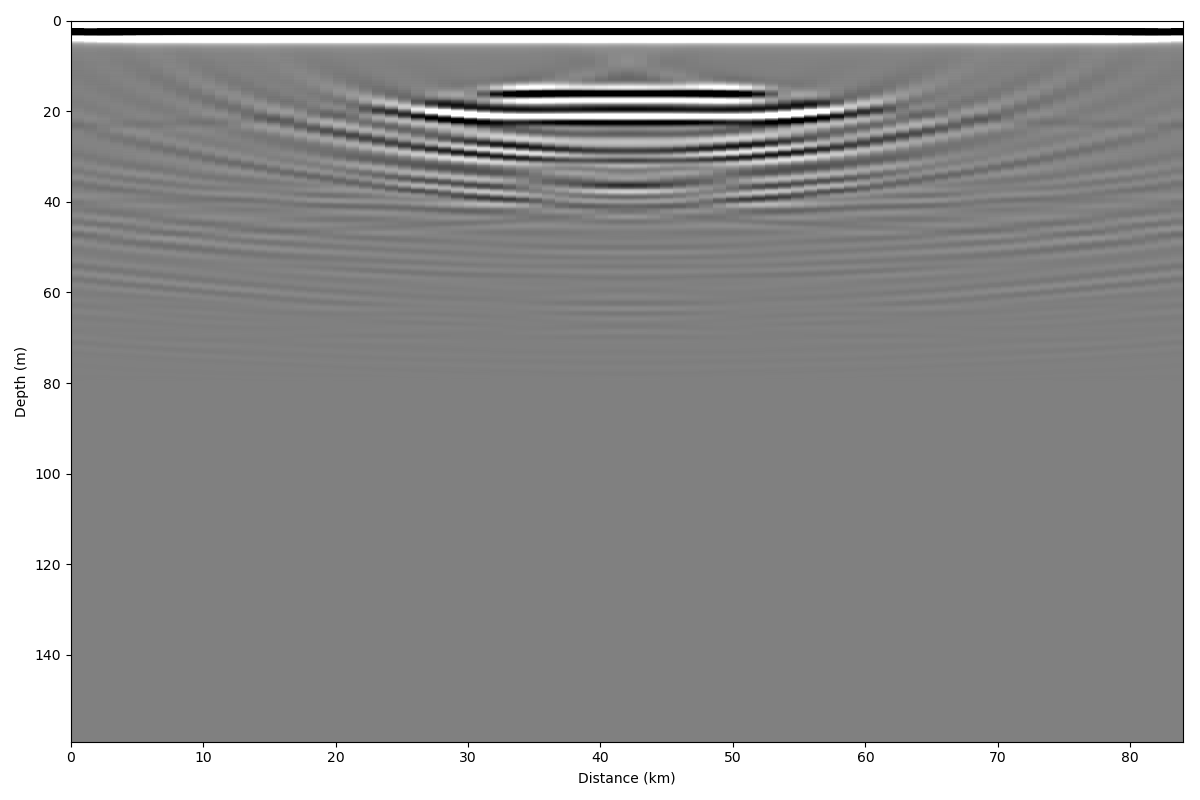
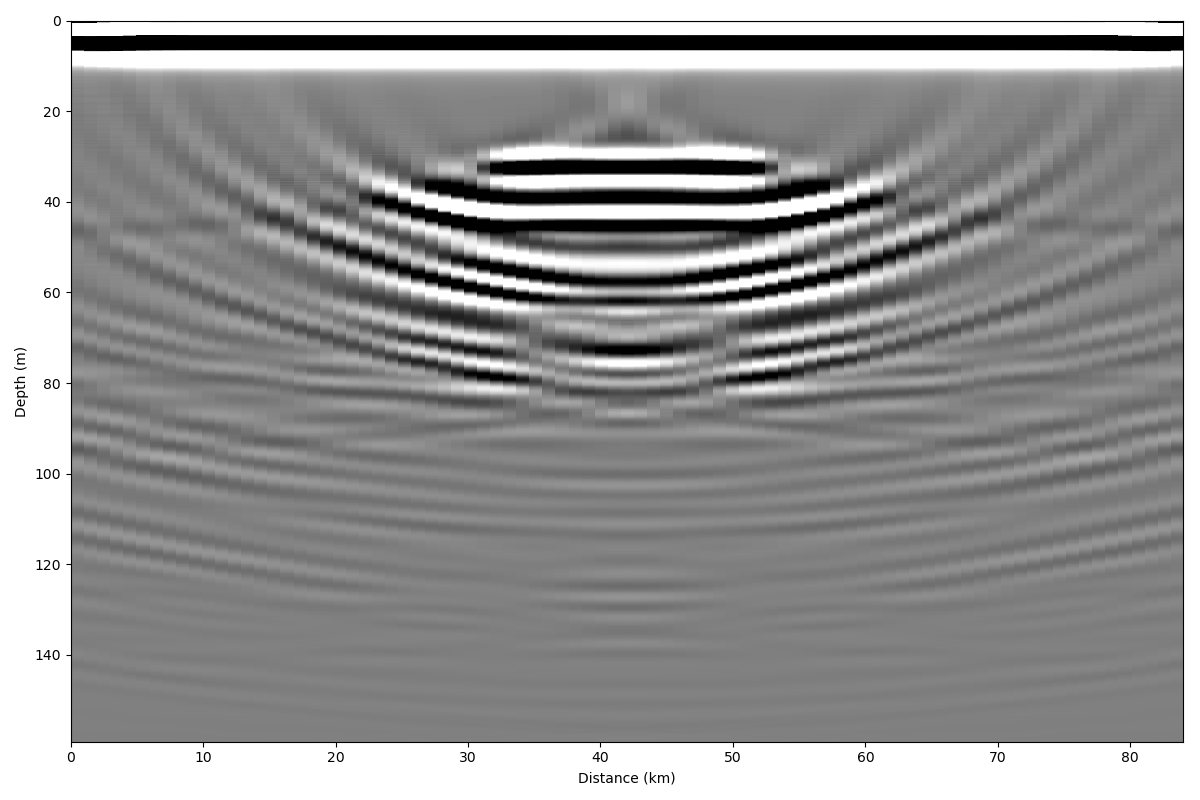
Fix Kirchhoff migration
Bug in kirchhoff which misassigned the depths.

diff --git a/impdar/lib/migrationlib.py b/impdar/lib/migrationlib.py
@@ -68,19 +68,17 @@ def migrationKirchhoff(dat, vel=1.69e8, vel_fn=None, nearfield=False,*args,**kwa
     # Try to cache some variables that we need lots
     tt_sec = dat.travel_time / 1.0e6
     max_travel_time = np.max(tt_sec)
-
     # Cache the depths
-    zs = vel * tt_sec
+    zs = vel * tt_sec/2.
     zs2 = zs**2.
 
     # Loop through all traces
-    print('Migrating trace number:', end='')
+    print('Migrating trace number:')
     for xi in range(dat.tnum):
-        print('{:d}, '.format(xi), end='')
+        print('{:d}'.format(xi),end=', ',flush=True)
         # get the trace distance
         x = dat.dist[xi]
         dists2 = (dat.dist - x)**2.
-
         # Loop through all samples
         for ti in range(dat.snum):
             # get the radial distances between input point and output point
@@ -158,12 +156,12 @@ def migrationStolt(dat,vel=1.68e8,htaper=100,vtaper=1000,*args,**kwargs):
     # interpolation will move from frequency-wavenumber to wavenumber-wavenumber, KK = D(kx,kz,t=0)
     KK = np.zeros_like(FK)
     print('Interpolating from temporal frequency (ws) to vertical wavenumber (kz):')
-    print('Interpolating:',end='')
+    print('Interpolating:')
     # for all temporal frequencies
     for zj in range(dat.snum//2):
         kzj = ws[zj]*2./vel
         if zj%100 == 0:
-            print(int(ws[zj]/1e6/2/np.pi),'MHz, ',end='')
+            print(int(ws[zj]/1e6/2/np.pi),'MHz',end=', ',flush=True)
         # for all horizontal wavenumbers
         for xi in range(len(kx)):
             kxi = kx[xi]
@@ -461,13 +459,13 @@ def phaseShift(dat, vmig, vels_in, kx, ws, FK):
     if not hasattr(vmig,"__len__"):
         print('Constant velocity %s m/usec'%(vmig/1e6))
         # iterate through all frequencies
-        print('Frequency: ',end='')
+        print('Frequency: ')
         for iw in range(len(ws)):
             w = ws[iw]
             if w == 0.0:
                 w = 1e-10/dat.dt
             if iw%100 == 0:
-                print(int(w/1e6/(2.*np.pi)),'MHz',', ',end='')
+                print(int(w/1e6/(2.*np.pi)),'MHz',end=', ',flush=True)
             # remove frequencies outside of the domain
             vkx2 = (vmig*kx/2.)**2.
             ik = np.argwhere(vkx2 < w**2.)
@@ -498,7 +496,7 @@ def phaseShift(dat, vmig, vels_in, kx, ws, FK):
         for itau in range(dat.snum):
             tau = dat.travel_time[itau]/1e6
             if itau%100 == 0:
-                print('Time %.2e, ' %(tau),end='')
+                print('Time %.2e' %(tau),end=', ',flush=True)
             # iterate through all frequencies
             for iw in range(len(ws)):
                 w = ws[iw]

diff --git a/doc/examples/migration.rst b/doc/examples/migration.rst
@@ -99,7 +99,7 @@ Data Example
 
 With ``impproc migrate``, you can perform a number of processing steps in a single line. We are starting with data in crossprofile.mat.
 
-.. image:: crossprofile.png
+.. image:: NEGIS_unmigrated.png
 
 This profile does not have anything above the first return; often we would have started recording earlier and have some samples that we would want to delete off the top to start. There is a lot of variability in the overall return power in different traces (resulting from the data collection, not from sub-surface variability). There is also a lot of noise. To vertically bandpass the data between 200 and 600 MHz, adaptively horizontally filter, stack 3 traces, and do a normal moveout correction with no transmit-receive separation only requires running
 
@@ -107,4 +107,4 @@ This profile does not have anything above the first return; often we would have 
 
 and then the output is saved in crossprofile_proc.mat.
 
-.. image:: crossprofile.png
+.. image:: NEGIS_migrated.png
